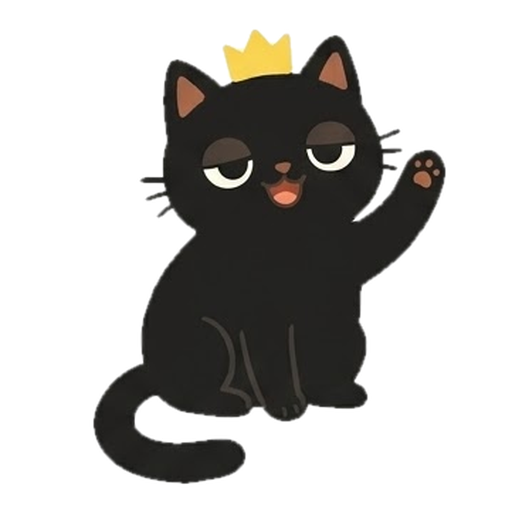
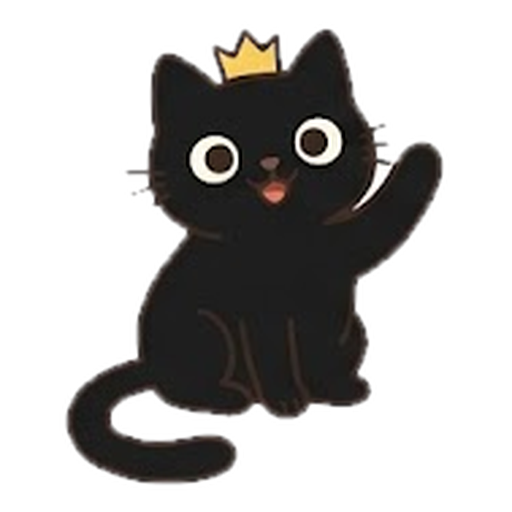
Saludo de Miau con 12 fotogramas
Claude-Session: https://claude.ai/code/session_01WRWapEtUiYWDaKx8JeCjKR

Changed region(s): [[0.125, 0.0312, 0.875, 0.9688], [0.4062, 0.625, 0.4375, 0.6562]]

diff --git a/apps/prezhome/lib/widgets/miau_character.dart b/apps/prezhome/lib/widgets/miau_character.dart
@@ -48,11 +48,8 @@ class MiauCharacter extends StatefulWidget {
   };
 
   /// Fotogramas del saludo (parpadea y mueve la pata). Mismo encuadre.
-  static const List<String> _greetingFrames = [
-    'assets/images/miau_saludo_1.png',
-    'assets/images/miau_saludo_2.png',
-    'assets/images/miau_saludo_3.png',
-    'assets/images/miau_saludo_4.png',
+  static final List<String> _greetingFrames = [
+    for (var i = 1; i <= 12; i++) 'assets/images/miau_saludo_$i.png',
   ];
 
   @override
@@ -118,8 +115,8 @@ class _MiauCharacterState extends State<MiauCharacter>
         ? AnimatedBuilder(
             animation: _frameCtrl,
             builder: (context, _) {
-              // Cada fotograma dura 4 % del ciclo (~130 ms); el resto, el 1.º.
-              final i = (_frameCtrl.value / 0.04).floor();
+              // Cada fotograma dura 3,5 % del ciclo (~110 ms); el resto, el 1.º.
+              final i = (_frameCtrl.value / 0.035).floor();
               final frames = MiauCharacter._greetingFrames;
               return Image.asset(
                 frames[i < frames.length ? i : 0],

diff --git a/apps/prezhome/test/miau_character_test.dart b/apps/prezhome/test/miau_character_test.dart
@@ -17,7 +17,7 @@ void main() {
     expect(_shownAsset(tester), 'assets/images/miau_saludo_1.png');
     await tester.pump(const Duration(milliseconds: 140));
     expect(_shownAsset(tester), 'assets/images/miau_saludo_2.png');
-    await tester.pump(const Duration(milliseconds: 1000));
+    await tester.pump(const Duration(milliseconds: 2000));
     expect(_shownAsset(tester), 'assets/images/miau_saludo_1.png');
   });
 

diff --git a/docs/MEMORIA.md b/docs/MEMORIA.md
@@ -38,7 +38,7 @@ cuando cambie algo de lo que aquí se dice (breve, sin historia).
   para superficies: `AppColors.card`). Widgets comunes: `widgets/empty_state.dart`,
   `widgets/list_skeleton.dart`, `widgets/food_image.dart`.
 - Ilustraciones (de Tessa, PNG 512 transparentes) en `assets/images/`:
-  poses `miau_*` (`MiauMood`), saludo animado `miau_saludo_1..4`,
+  poses `miau_*` (`MiauMood`), saludo animado `miau_saludo_1..12`,
   `vacio_*` (EmptyState `image:`), `zona_<etiqueta>` (Mi cocina), `onb_*`.
 - Offline: `services/offline_repository.dart` (+ `offline_merge.dart`,
   `supabase_remote_sender.dart`, `offline_provider.dart`). Ids locales
